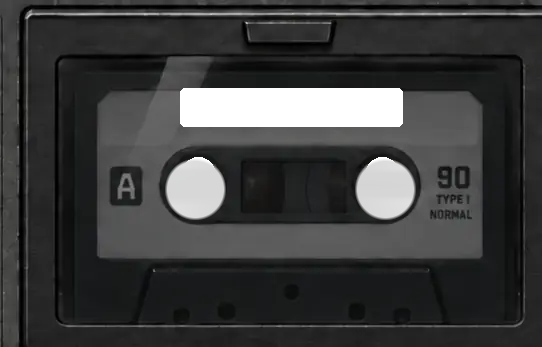
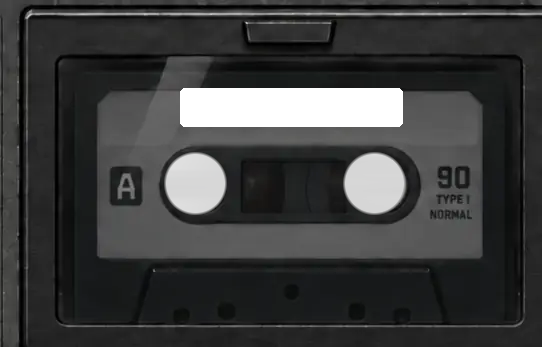
Align textured glass over live reels

Changed region(s): [[0.6199, 0.4323, 0.7675, 0.634], [0.2952, 0.4323, 0.4428, 0.6052], [0.3247, 0.5764, 0.4133, 0.634]]

diff --git a/tests/cassette_contract.py b/tests/cassette_contract.py
@@ -39,8 +39,8 @@ overlay=Image.open(assets/'cassette-reference-overlay.webp').convert('RGBA')
 assert overlay.size == (542,347)
 # The overlay keeps continuous smoked-glass texture over both reel positions;
 # it contains neither opaque frozen hubs nor fully transparent holes.
-for cx in (195,385):
-    samples=[overlay.getpixel((cx,189)),overlay.getpixel((cx,166)),overlay.getpixel((cx,212))]
+for cx in (195,374):
+    samples=[overlay.getpixel((cx,183)),overlay.getpixel((cx,160)),overlay.getpixel((cx,206))]
     assert all(0<pixel[3]<96 for pixel in samples),samples
     assert len({pixel[:3] for pixel in samples})>1,samples
 
